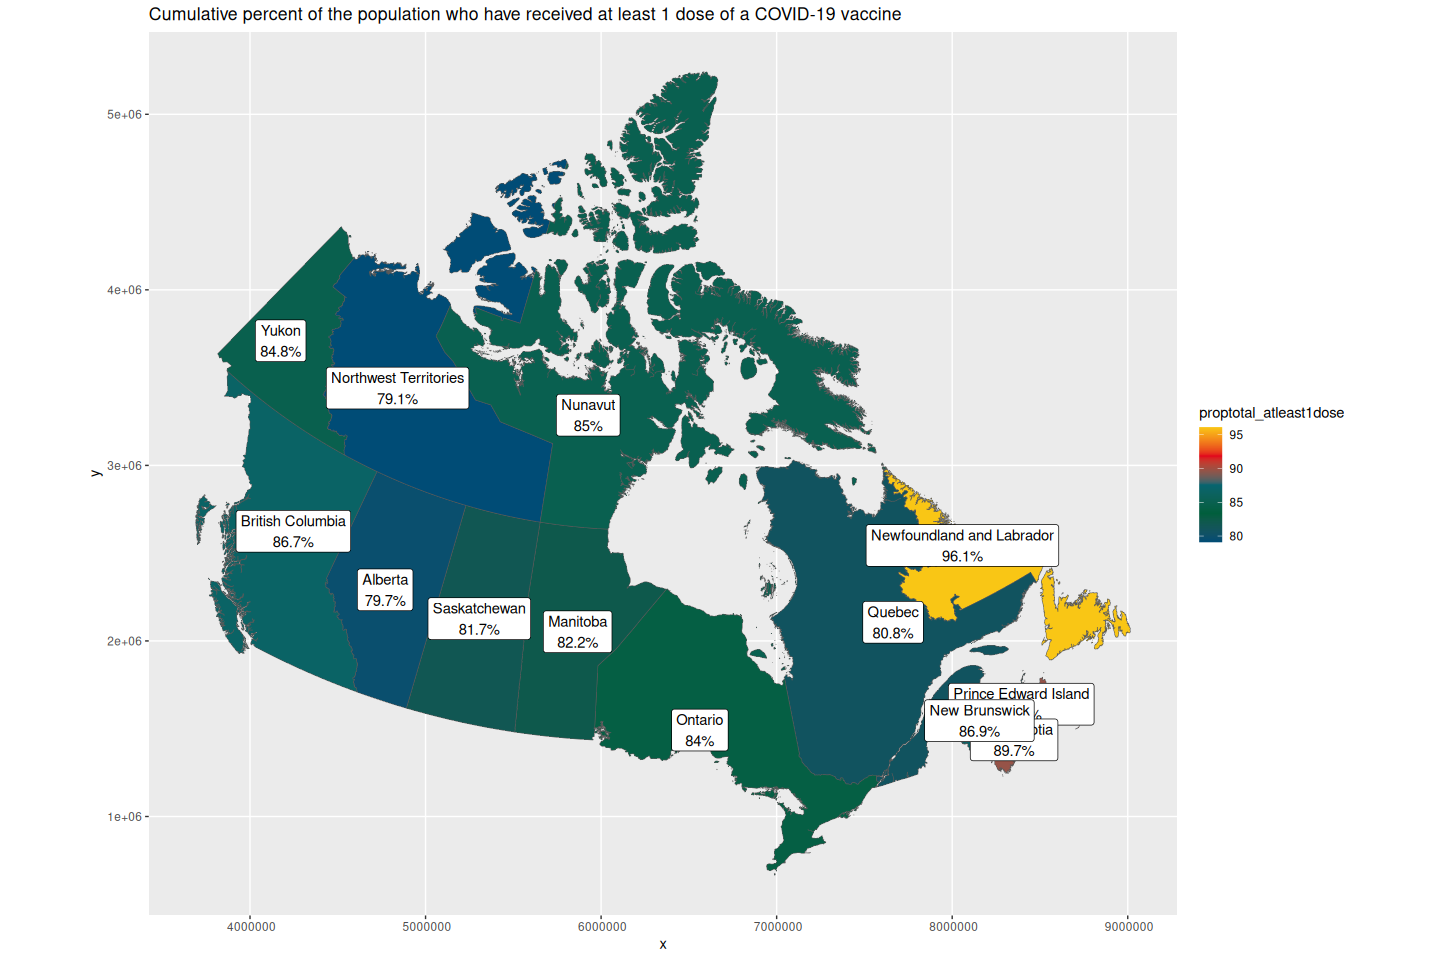
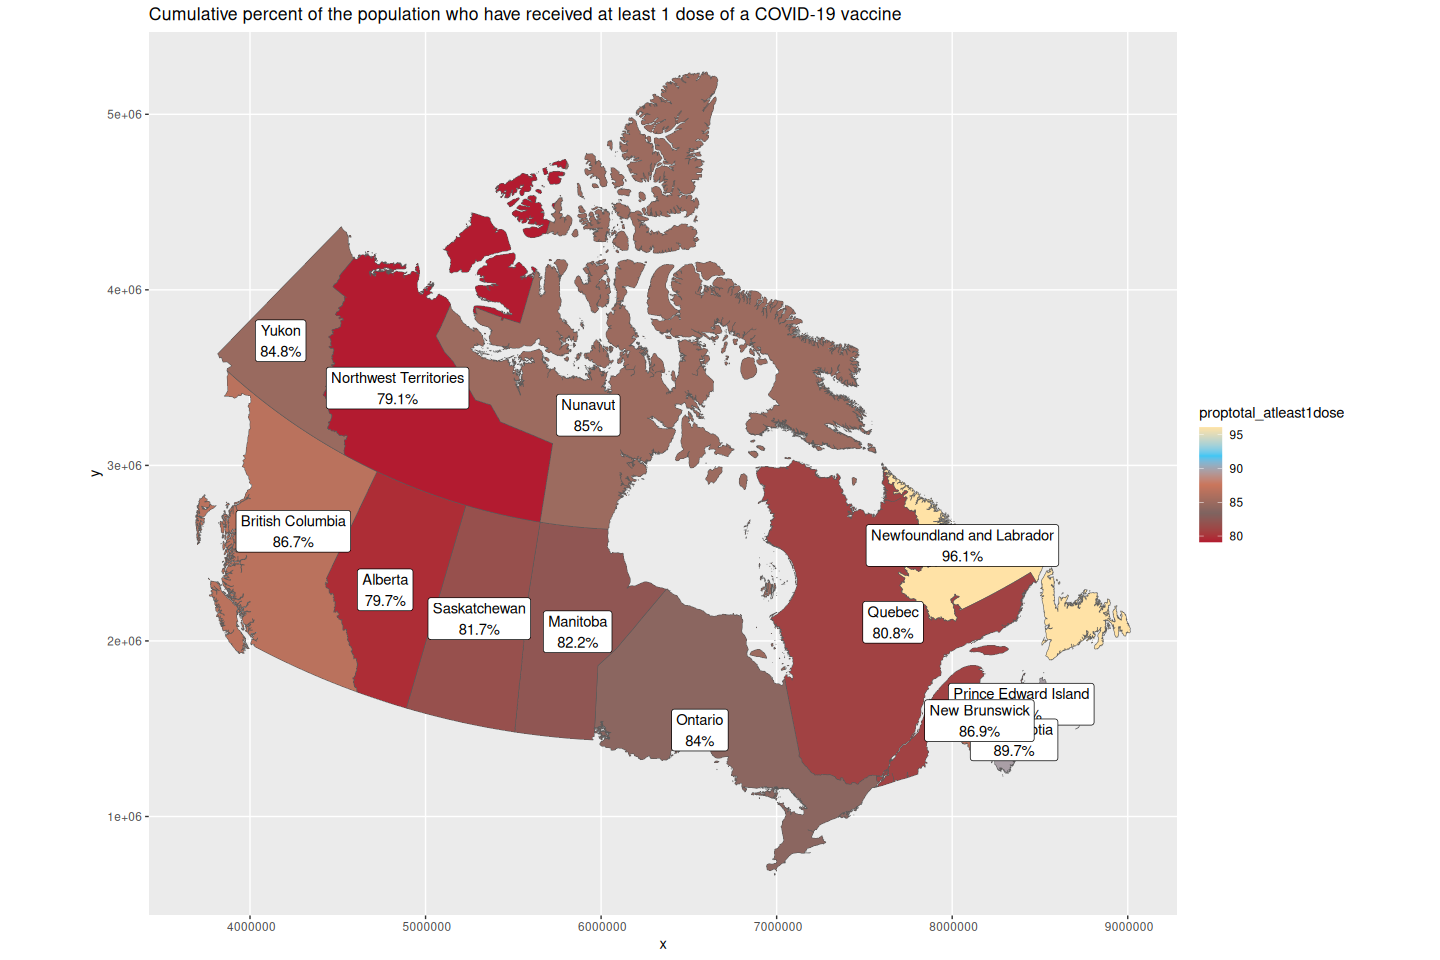
fix palette in the documentation

Changed region(s): [[0.125, 0.0625, 0.7812, 0.9062], [0.8125, 0.4375, 0.875, 0.5625], [0.6875, 0.7812, 0.7188, 0.8125]]

diff --git a/README.md b/README.md
@@ -150,7 +150,7 @@ vaccination %>%
   ggplot() +
   geom_sf(aes(fill = proptotal_atleast1dose, geometry = geometry)) +
   geom_sf_label(aes(label = label, geometry = geometry)) +
-  scale_fill_tintin_c(option = "the_castafiore_emerald") +
+  scale_fill_tintin_c(option = "the_crab_with_the_golden_claws") +
   labs(title = "Cumulative percent of the population who have received at least 1 dose of a COVID-19 vaccine")
 ```
 
